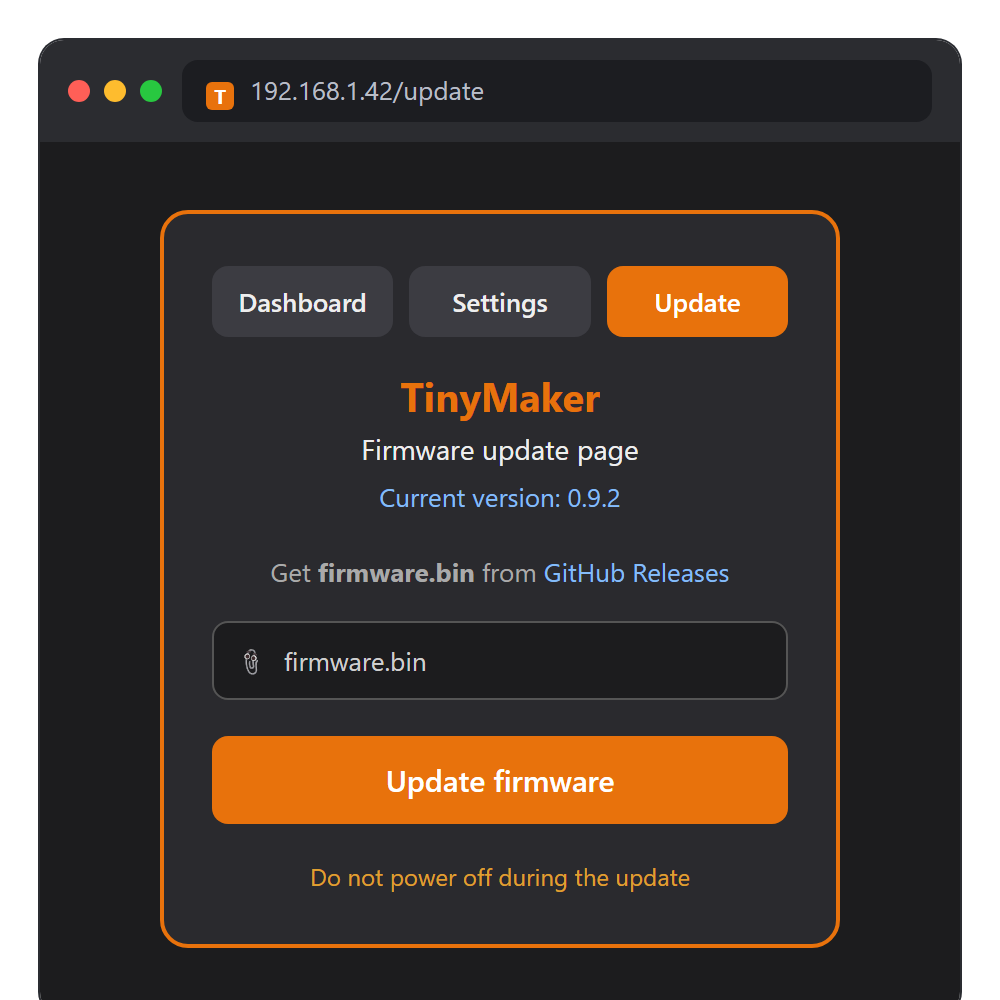
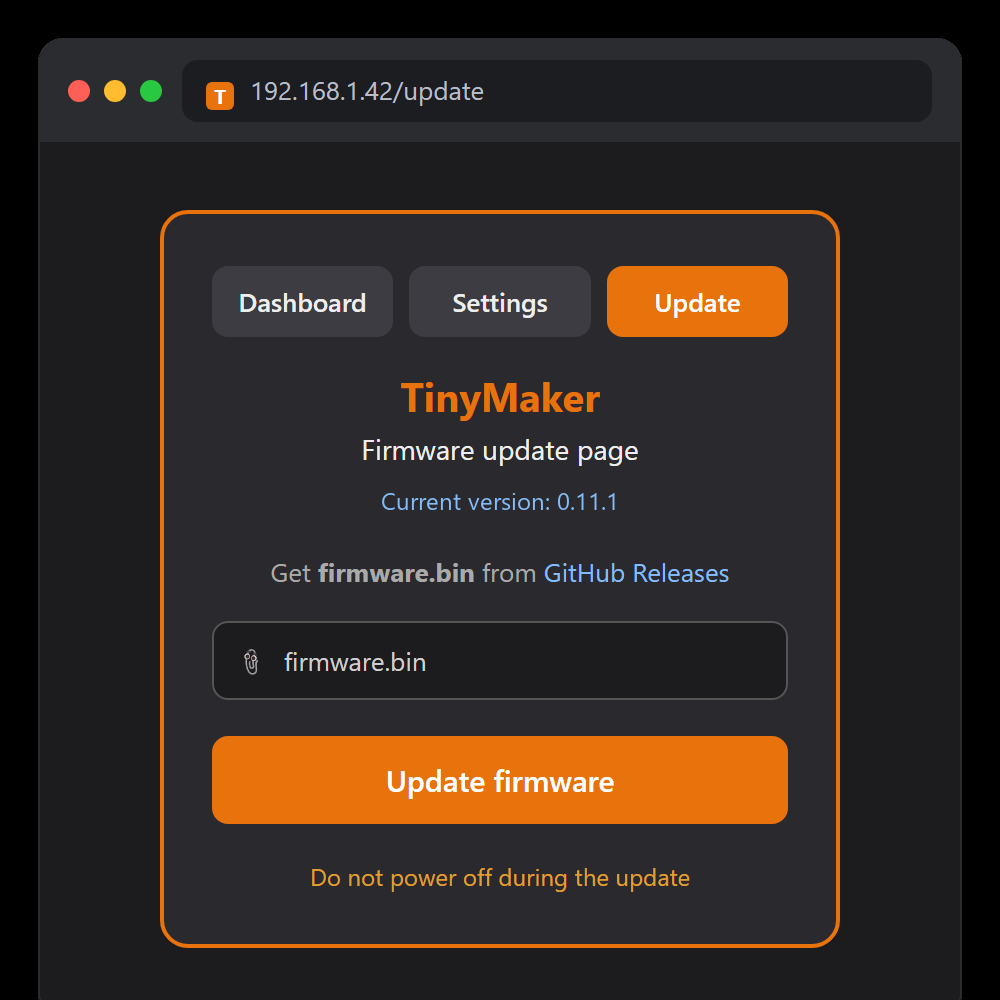
v0.11.1: wake blanked screen on web updates, Low resin warn on the LCD, mockup refresh
- uiWakeScreen(): netMessage/netProgressStart now wake a UI-timeout-blanked
  screen first, so web-started firmware updates and uploads are visible on
  the printer (before this the progress was drawn to a displayOff'd panel).
- System > Advanced gains "Low resin warn" (item 5, OK cycles 1-10 ml) so
  the low-resin threshold is settable without a computer; WiFi/Web
  control/MQTT shift to items 6-8, reboot prompt follows WiFi to item 6.
- README: Advanced table row for the new item; threshold now documented as
  settable on both the printer and the dashboard.
- Mockups refreshed to current versions (printer-screens, web-dashboard,
  firmware-update-page).

Changed region(s): [[0.0, 0.0, 1.0, 1.0], [0.372, 0.465, 0.62, 0.527]]

diff --git a/README.md b/README.md
@@ -142,6 +142,7 @@ Open the printer's IP address in any browser for the full dashboard *(contribute
 | Dry run | Test prints without UV — motion and display only |
 | VAT refilled | Press after refilling resin — restarts the level estimate from a full VAT |
 | Low resin pause | On = the print pauses for a refill when the estimate runs low |
+| Low resin warn | The warning/pause threshold, 1–10 ml (OK cycles) |
 | **WiFi** | **On/Off — the whole network** (web, PrusaSlicer upload, MQTT, self-update) |
 | Web control | On/Off — browser dashboard + slicer upload (MQTT/HA status keeps working) |
 | MQTT | On/Off (shown once MQTT is configured in the dashboard) |
@@ -162,7 +163,7 @@ The printer has no resin sensor — instead it **keeps count**: every printed la
 * **"Resin left (est.)"** is shown on the dashboard; in Home Assistant it appears as a *Resin left* sensor plus a *Resin low* alert you can automate notifications on.
 * **After refilling**, tell the printer: **System → Advanced → VAT refilled** on the printer, or the **VAT refilled** button on the dashboard. The estimate restarts from a full VAT (your VAT size setting).
 * **Before a print starts**, if the level is at/below the warning threshold (or a fresh ml estimate says the model needs more than what's left), the printer shows **"Low resin!"** with the numbers — Start anyway or Back. Starting from the browser asks the same in a dialog.
-* **Low resin pause** (optional, default Off): mid-print, when the level drops to the threshold, the printer finishes the layer, lifts and pauses showing **"Refill VAT!"** — refill, press VAT refilled (dashboard) or just resume. The threshold (`Low resin warn`, 1–10 ml, default 2) is set in the dashboard's Settings tab.
+* **Low resin pause** (optional, default Off): mid-print, when the level drops to the threshold, the printer finishes the layer, lifts and pauses showing **"Refill VAT!"** — refill, press VAT refilled (dashboard) or just resume. The threshold (`Low resin warn`, 1–10 ml, default 2) is set on the printer (System → Advanced) or in the dashboard's Settings tab.
 
 > ⚠️ It is an **estimate**, not a measurement — it doesn't account for resin sticking to models or drips, so treat it as a planning aid and glance at the real VAT now and then. Refills you don't confirm with "VAT refilled" won't be counted.
 